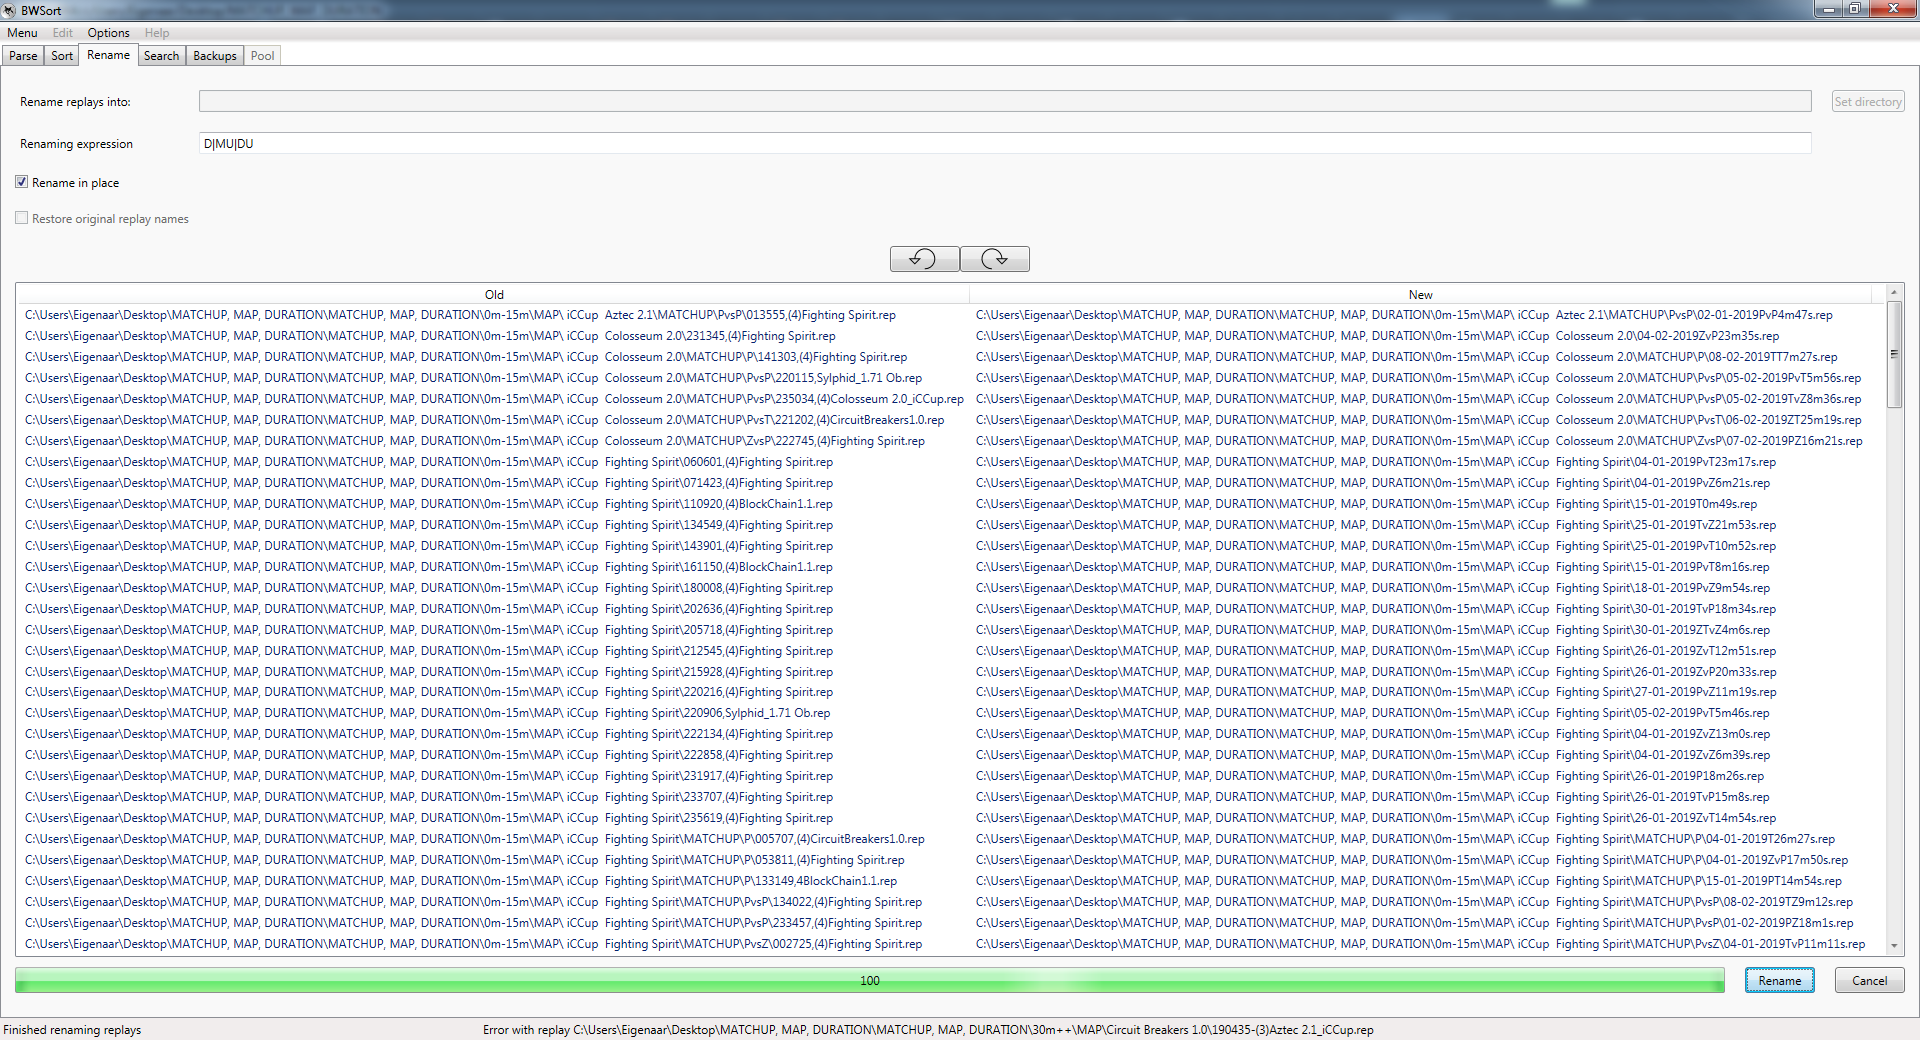
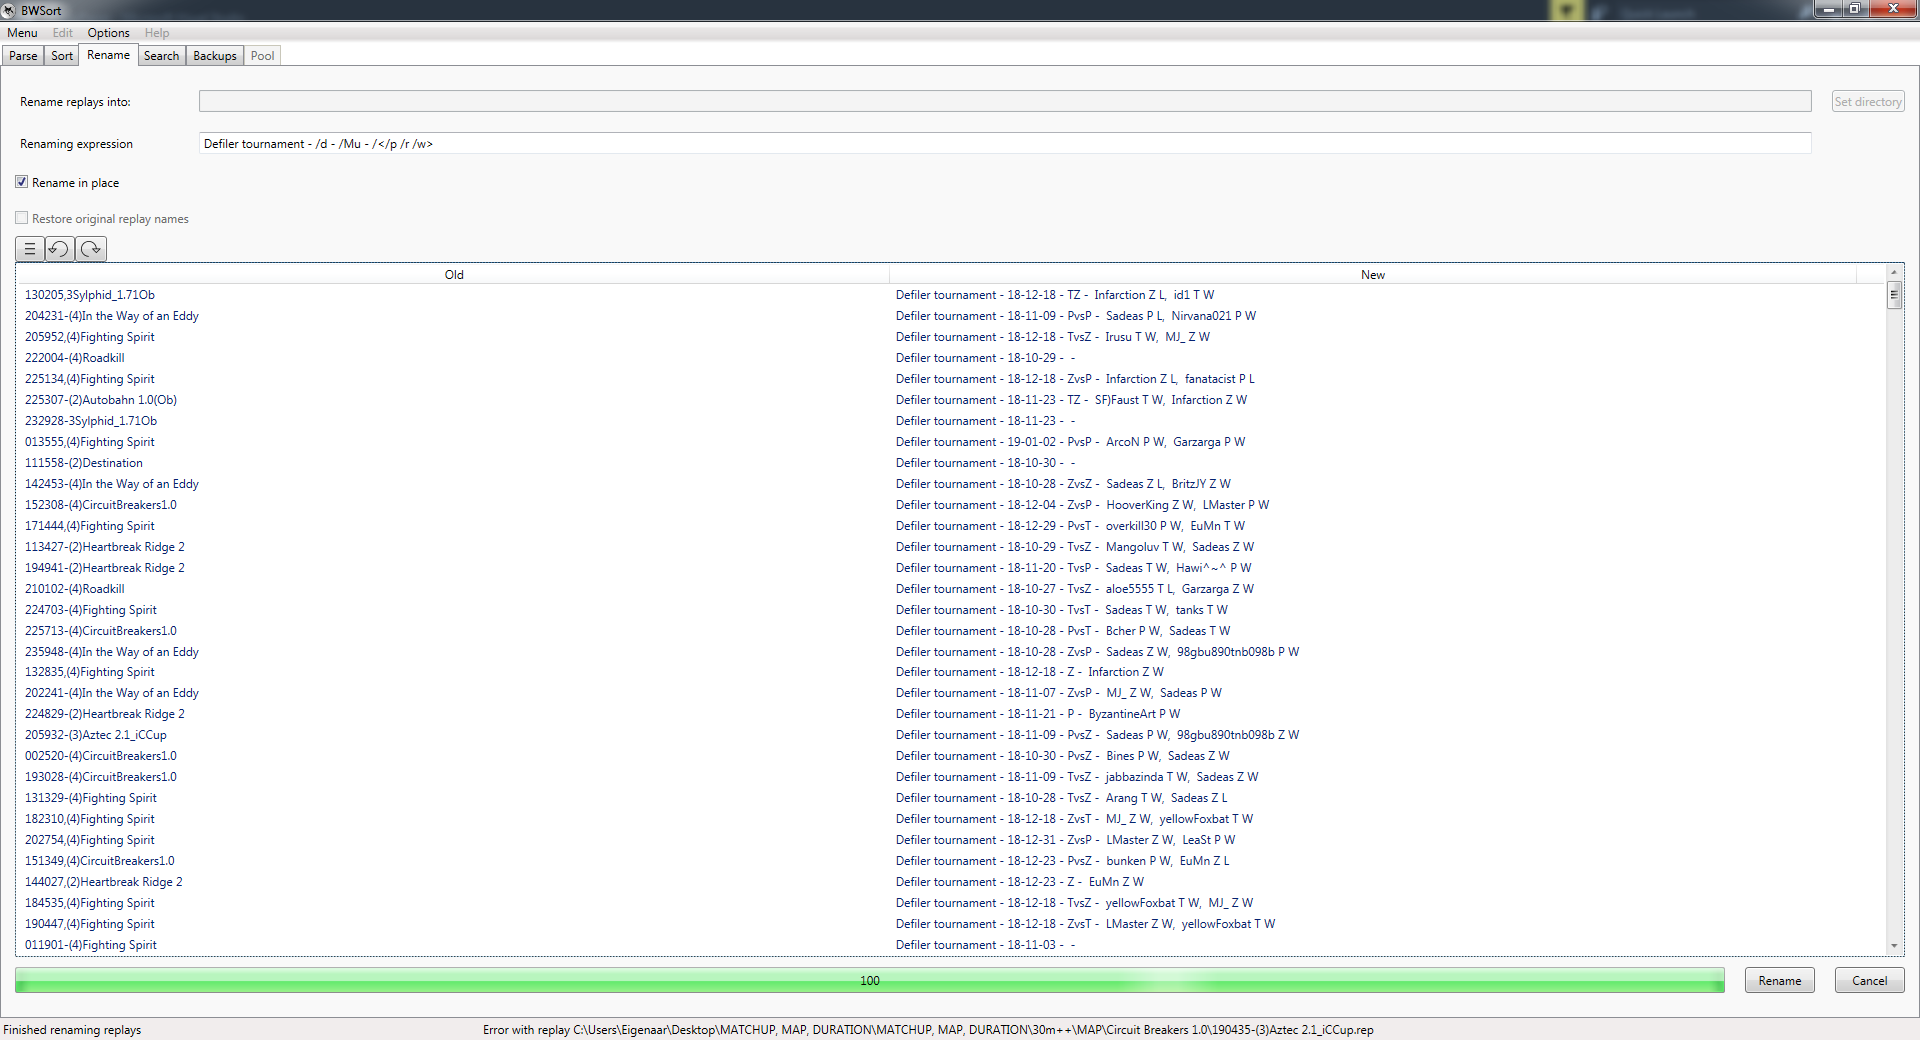
Updated image sizes, updated documentation. Fixing whitespace issue with player info block.

Changed region(s): [[0.0, 0.2154, 1.0, 0.9538], [0.0, 0.0, 1.0, 0.0308], [0.0938, 0.1231, 0.2188, 0.1538]]

diff --git a/Main/ReplayParser.ReplaySorter.UI/MainWindow.xaml b/Main/ReplayParser.ReplaySorter.UI/MainWindow.xaml
@@ -383,7 +383,7 @@
                                                     <ItemsControl.ItemTemplate>
                                                         <DataTemplate>
                                                             <StackPanel Orientation="Horizontal">
-                                                                <Image Source="/images/crown.png" Height="10px" Width="10px">
+                                                                <Image Source="/images/crown.png" Height="16px" Width="16px">
                                                                     <Image.Visibility>
                                                                         <MultiBinding Converter="{StaticResource PTWBConverter}">
                                                                             <Binding BindsDirectlyToSource="True"/>
@@ -391,7 +391,7 @@
                                                                         </MultiBinding>
                                                                     </Image.Visibility>
                                                                 </Image>
-                                                                <Image Source="/images/eye.png" Height="10px" Width="10px">
+                                                                <Image Source="/images/eye.png" Height="16px" Width="16px">
                                                                     <Image.Visibility>
                                                                         <MultiBinding Converter="{StaticResource PTOBConverter}">
                                                                             <Binding BindsDirectlyToSource="True"/>
@@ -419,8 +419,8 @@
                                             <StackPanel>
                                                 <Image 
                                                     Source="{Binding Path=Content.ReplayMap.MapName, Converter={StaticResource MTFConverter}}"
-                                                    Height="30px"
-                                                    Width="30px"
+                                                    Height="50px"
+                                                    Width="50px"
                                                  />
                                                 <Label Content="{Binding Path=Content.ReplayMap.MapName}"></Label>
                                             </StackPanel>

diff --git a/Main/ReplayParser.ReplaySorter/Renaming/ReplayDecorator.cs b/Main/ReplayParser.ReplaySorter/Renaming/ReplayDecorator.cs
@@ -275,6 +275,10 @@ namespace ReplayParser.ReplaySorter.Renaming
                         if (nextCharIndex < charCount)
                         {
                             toSkip += 1 + TakeWhileWhiteSpaceCount(formatItemChars, i + 2);
+                            char lastChar = GetLastCharacterStringBuilder(outputSb);
+                            if (!char.IsWhiteSpace(lastChar))
+                                outputSb.Append(' ');
+
                             switch (formatItemChars[nextCharIndex])
                             {
                                 case 'p':
@@ -287,14 +291,10 @@ namespace ReplayParser.ReplaySorter.Renaming
                                     outputSb.Append(playerRace(player));
                                     break;
                                 case 'w':
-                                    char toAppend = playerVictoryStatus(_replay, player) ? 'W' : 'L';
-                                    char lastChar = GetLastCharacterStringBuilder(outputSb);
-                                    outputSb.Append((char.IsWhiteSpace(lastChar) || char.MinValue == lastChar) ? toAppend.ToString() : $" {toAppend}");
+                                    outputSb.Append(playerVictoryStatus(_replay, player) ? 'W' : 'L');
                                     break;
                                 case 'W':
-                                    string toAppendString = playerVictoryStatus(_replay, player) ? "Winner" : "Loser";
-                                    char lastCharacter = GetLastCharacterStringBuilder(outputSb);
-                                    outputSb.Append((char.IsWhiteSpace(lastCharacter) || char.MinValue == lastCharacter) ? toAppendString : $" {toAppendString}");
+                                    outputSb.Append(playerVictoryStatus(_replay, player) ? "Winner" : "Loser");
                                     break;
                                 default:
                                     throw new InvalidOperationException();

diff --git a/Main/ReplayParser.ReplaySorter/Renaming/CustomFormat/CustomReplayFormat.cs b/Main/ReplayParser.ReplaySorter/Renaming/CustomFormat/CustomReplayFormat.cs
@@ -52,7 +52,7 @@ namespace ReplayParser.ReplaySorter.Renaming
             { new Regex(@"^(M(?![Uu]))"), CustomReplayNameSyntax.MapLong }, // Map, long form
             { new Regex(@"^(M[Uu])"), CustomReplayNameSyntax.Matchup }, // Matchup
             { new Regex(@"^(d(?!u))"), CustomReplayNameSyntax.Date }, // Date, yy-MM-dd
-            { new Regex(@"^(D(?![Uu]))"), CustomReplayNameSyntax.DateTime }, // DateTime, yy-MM-dd hh:mm:ss
+            { new Regex(@"^(D(?![Uu]))"), CustomReplayNameSyntax.DateTime }, // DateTime, yy-MM-ddThhmmss
             { new Regex(@"^(du)"), CustomReplayNameSyntax.DurationShort }, // Duration, short format
             { new Regex(@"^(D[Uu])"), CustomReplayNameSyntax.DurationLong }, // Duration, long format
             { new Regex(@"^(F)"), CustomReplayNameSyntax.GameFormat }, // game format i.e. 1v1, 2v2, ... 

diff --git a/README.md b/README.md
@@ -142,22 +142,45 @@ It is also possible at any point to always return to how the replays were named 
 ![Rename replays according to a custom format. You can rename in place or into an output directory. The output area shows how each filename has changed.](./imgs/rename-tab-in-place.png)
 
 #### Renaming syntax
-The current syntax is quite sensitive, so be careful to not include any unnecessary spaces anywhere. The syntax consists of:
-1. T[separator] with separator being a single character (for example `,` or `_` ). This will extract the teams from the replay and separate individual players per team using the separator.
-2. WT[separator] only extracts the winning team.
-3. LT[separator] only extracts the losing team.
-4. MU gets the match-up.
-5. M gets the map.
-6. DU gets the game length.
-7. D gets the date the game was played on.
-8. WR extracts the winning race.
-9. LR extracts the losing race.
+You can rename your replays by using special placeholders that start with the `/` character, currently BWSort supports the following placeholders:
++ `WR` or `Wr`: Stands for WinningRaces, which will be replaced by a comma separated list of the races of the winning players.
++ `LR` or `Lr`: Stands for LosingRaces, which will be replaced by a comma separated list of the races of the losing players.
++ `R` or `r`: Stands for Races, which will be replaced by a comma separated list of the races of all players (excluding observers).
++ `WT` or `Wt`: Stands for WinningTeam, which will be replaced by a comma separated list of all the names of the winning players.
++ `LT` or `Lt`: Stands for LosingTeams, which will be replaced by a comma separated list of all the names of the losing players. Each team will be surrounded by parantheses.
++ `T`: Stands for Teams, which will be replaced by a comma separated list of all the names of all players, exluding observers. Each team will be surrounded by parantheses.
++ `m`: Stands for map. This will print a short form i.e. the first letter of each word. This is sufficiently recognizable for most maps however some maps will have strange abbreviations.
++ `M`: Stands for map. This will print the long form i.e. the full map name.
++ `MU or Mu`: Stands for Match-up. This will be replaced by the match-up.
++ `d`: Stands for date. This will be replaced by the date in the year-month-day format.
++ `D`: Stands for datetime. This will be replaced by the datetime in a format that resembles ISO-8601, without the timezone information, an example would be `2019-05-25T160510` which means 5 minutes and 10 seconds past 4 in the afternoon on 25th of May, 2019.
++ `du`: Stands for duration. This wll be replaced by the duration of the replay in a short format, an example would be `01_05_15` which means 1 hour, 5 minutes and 15 seconds.
++ `DU or Du`: Stands for duration. This will be replaced by the duration of the replay in a longer format by writing out the time units (hours, minutes, seconds). An example would be `1 hour 5 minutes 15 seconds`.
++ `F`: Stands for game format. This will be replaced by the team grouping to give an indication of what kind of game it was i.e. 1v1, 2v2, 3v3...
++ `gt`: Stands for game type. This will be replaced by the actual game type as known by starcraft such as TopVsBottom (TvB), Melee (M), OneOnOne (OvO),... in an abbreviated form.
++ `GT or Gt`: Stands for game type. This will be replaced by the full name of the game type.
++ `P`: Stands for players. This will be replaced by a comma separated list of all players including observers.
++ `p`: Stands for players. This will be replaced by a comma separated list of all players excluding observers.
++ `<>`: Stands for player info block. In this block you can specify arguments that will be applied to all players of the replay.
+  + `p`: Stands for player. This will be replaced by the name of the player.
+  + `R:` Stands for race. This will be replaced by the full name of the race of the player.
+  + `r`: Stands for race. This will be replaced by the first letter of the race of the player.
+  + `W`: Stands for winstatus. This will be replaced by `Winner` or `Loser` depending on whether the player is a winner or loser.
+  + `w`: Stands for winstatus. This will be replaced by `W` or `L` depending on whether the player is a winner or loser.
++ `O`: Stands for original. This will be replaced by the original name of the replay.
++ The following placeholders allow you to specify a non-negative (natural) integer. This corresponds to the identifier a player has in the game, unfortunately these are unpredictable.
+  + `Px`: Stands for player x. This will be replaced by the name of the x'th player.
+  + `Rx`: Stands for race x. This will be replaced by the full name of the race of the x'th player.
+  + `rx`: Stands for race x. This will be replaced by the first letter of the race of the x'th player.
+  + `Wx`: Stands for winstatus x. This will be replaced by `Winner` or `Loser` depending on whether the x'th player is a winner or loser.
+  + `wx`: Stands for winstatus x. This will be replaced by `W` or `L` depending on whether the x'th player is a winner or loser.
 
-You have to use vertical bars `|` to separate arguments. 
+You can use these placeholders in an otherwise literally interpreted sentence: `Defiler tournament - /d - /Mu - /</p /r /w>` which would produce replays with names such as:
++ `Defiler tournament - 2019-05-03 - ZvZ - Jaedong Z W, CrispyDrone Z L`
++ `Defiler tournament - 2019-05-03 - PZvPZ - Bisu P W, Jaedong Z W, CrispyDrone Z L, AbstractDaddy P L`
 
 #### Examples
-1. `DU|M|WT[_]`: will give a replay of the format: `15min13sFightingSpirit(CrispyDrone_Jaedong).rep`
-2. `D|MU|M|DU`: will give a replay of the format: `11-03-19ZZvsTTFightingSpirit15min13s.rep`
+TODO
 
 ### Backup replays
 You can backup directories containing replays. First you will have to create a new database file; you can give it a name and create it in a specific directory, it will be automatically selected as the active database.
@@ -278,3 +301,6 @@ This project is licensed under the GNU GPLv3 license.
 
 ## Acknowledgements
 Many thanks to SimplySerenity for porting the replay parser to C#. You can find the original project here: <https://github.com/SimplySerenity/SCReplayFileParser>
+
+## Attributions
++ <div>Crown icon made by <a href="https://www.flaticon.com/authors/pixel-perfect" title="Pixel perfect">Pixel perfect</a> from <a href="https://www.flaticon.com/" title="Flaticon">www.flaticon.com</a> is licensed by <a href="http://creativecommons.org/licenses/by/3.0/" title="Creative Commons BY 3.0" target="_blank">CC 3.0 BY</a>.</div>
